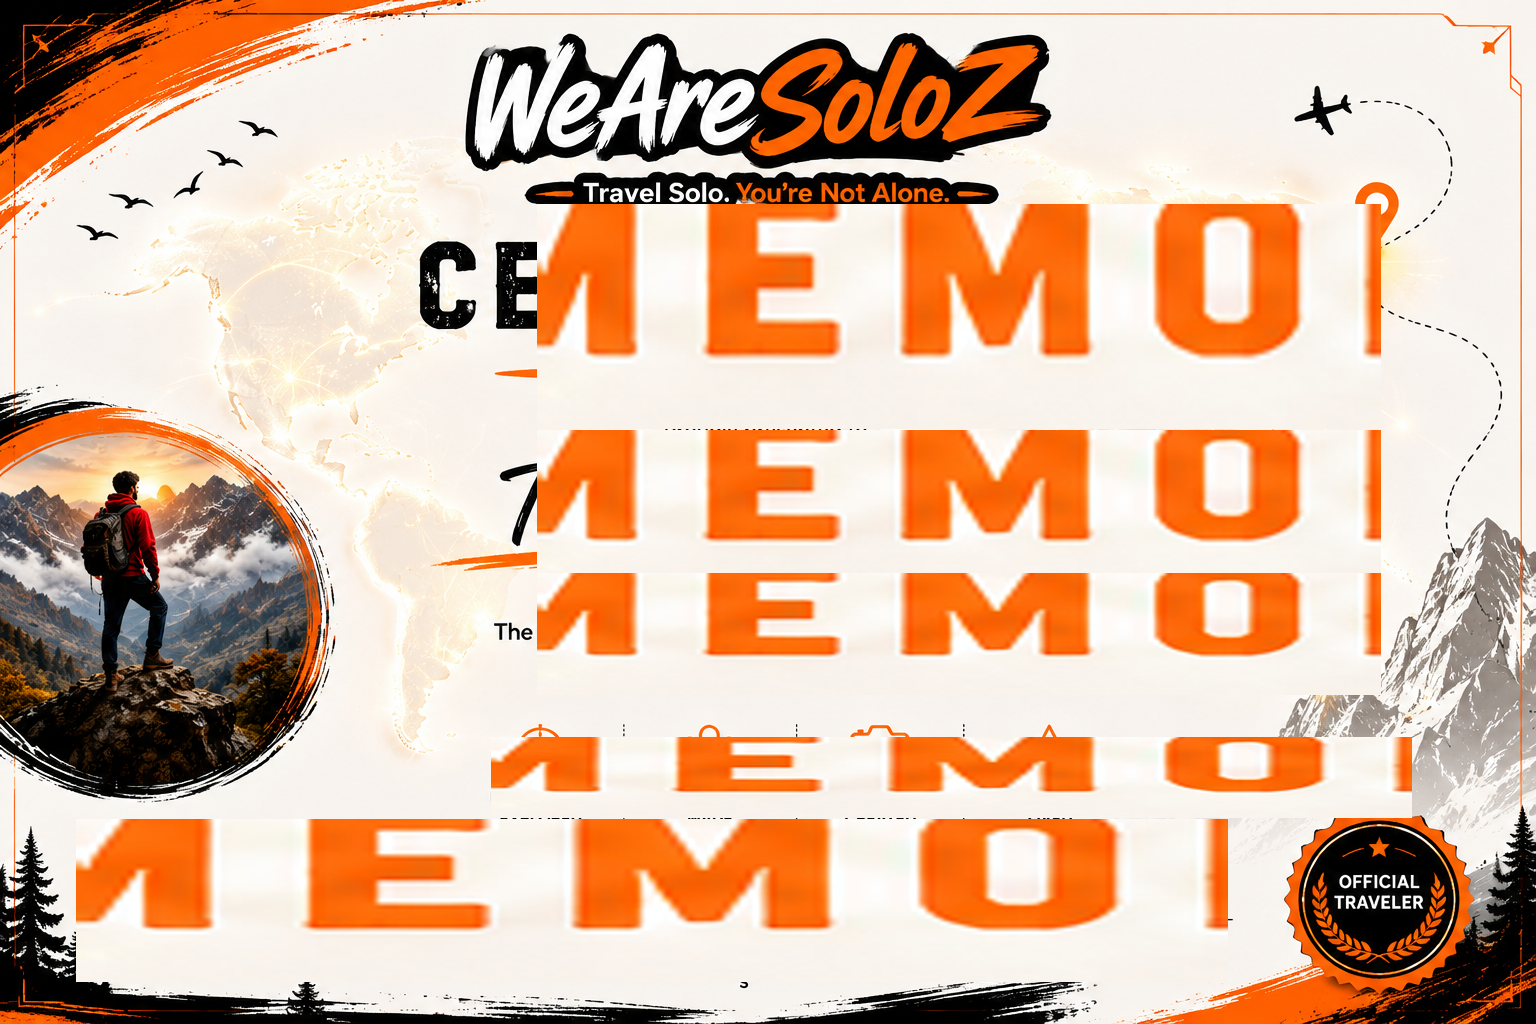
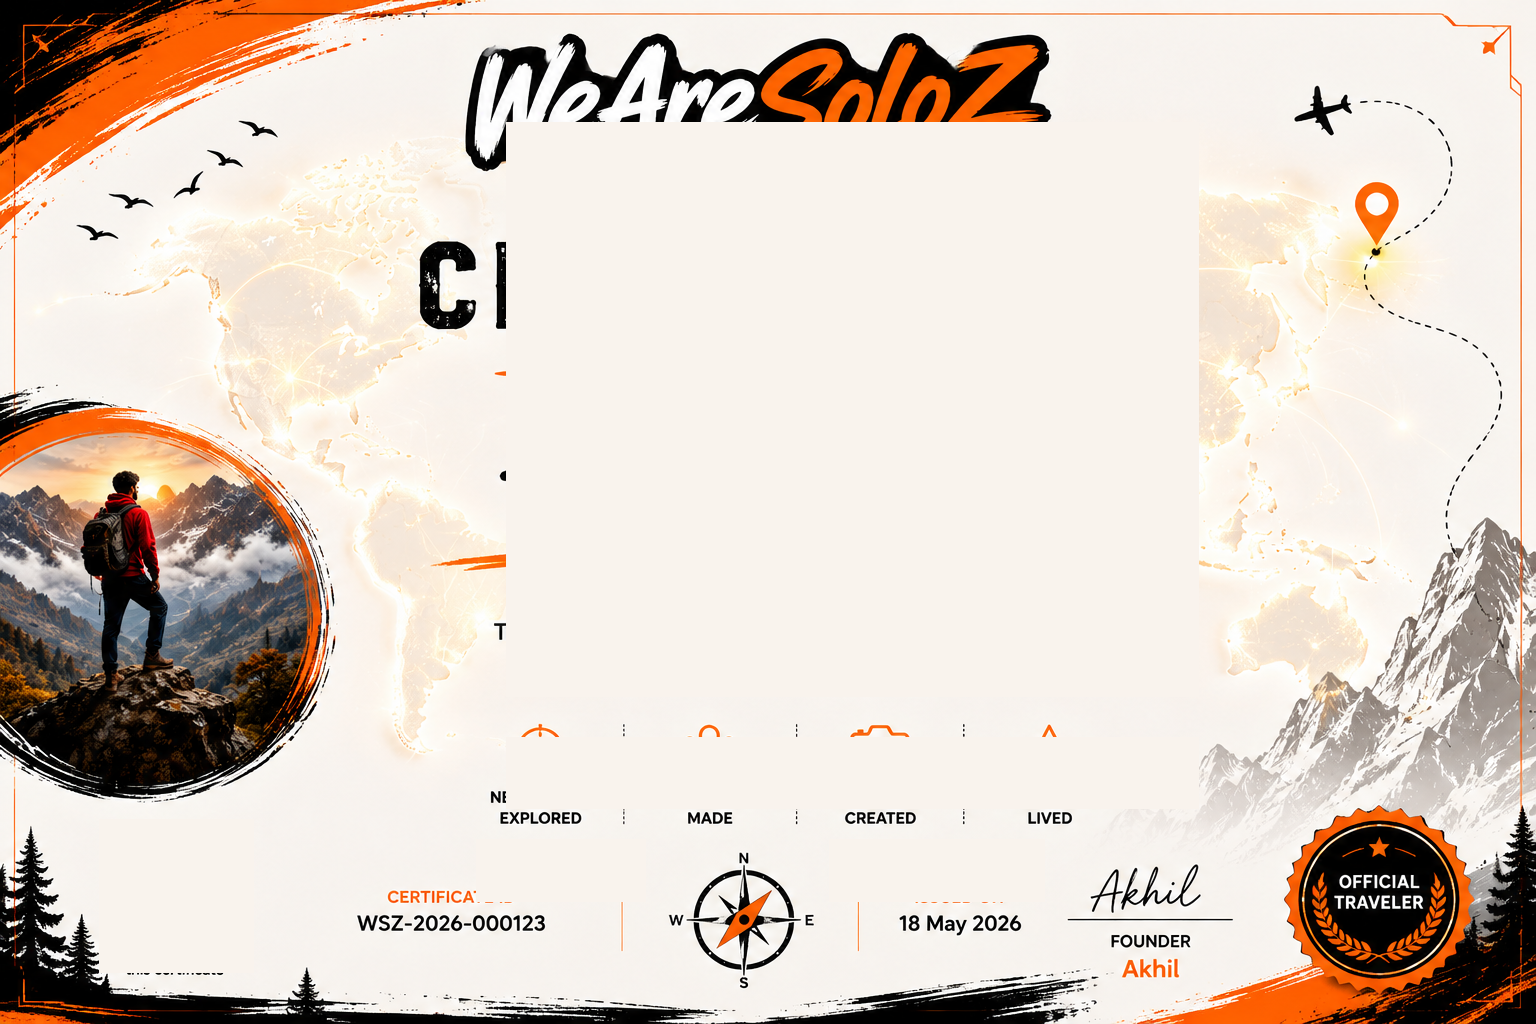
fix(certificate): generate pure solid parchment background artwork eliminating all text artifacts and double overlaps

diff --git a/app/certificate/[id]/page.tsx b/app/certificate/[id]/page.tsx
@@ -310,7 +310,7 @@ export default function CertificatePage({ params }: { params: Promise<{ id: stri
         </div>
 
         {/* 100% PERFECT HIGH-RES WORLD MAP ARTWORK CONTAINER WITH DYNAMIC TEXT */}
-        <div className="relative w-full max-w-4xl mx-auto aspect-[1000/667] rounded-2xl shadow-2xl overflow-hidden border-[3px] border-[#ea580c] bg-[#fcfaf4] p-6 sm:p-12 flex flex-col justify-between text-center select-none">
+        <div className="relative w-full max-w-4xl mx-auto aspect-[1000/667] rounded-2xl shadow-2xl overflow-hidden border-[3px] border-[#ea580c] bg-[#f9f3ed] p-6 sm:p-12 flex flex-col justify-between text-center select-none">
           
           {/* Base Clean World Map Artwork Image */}
           <img 
